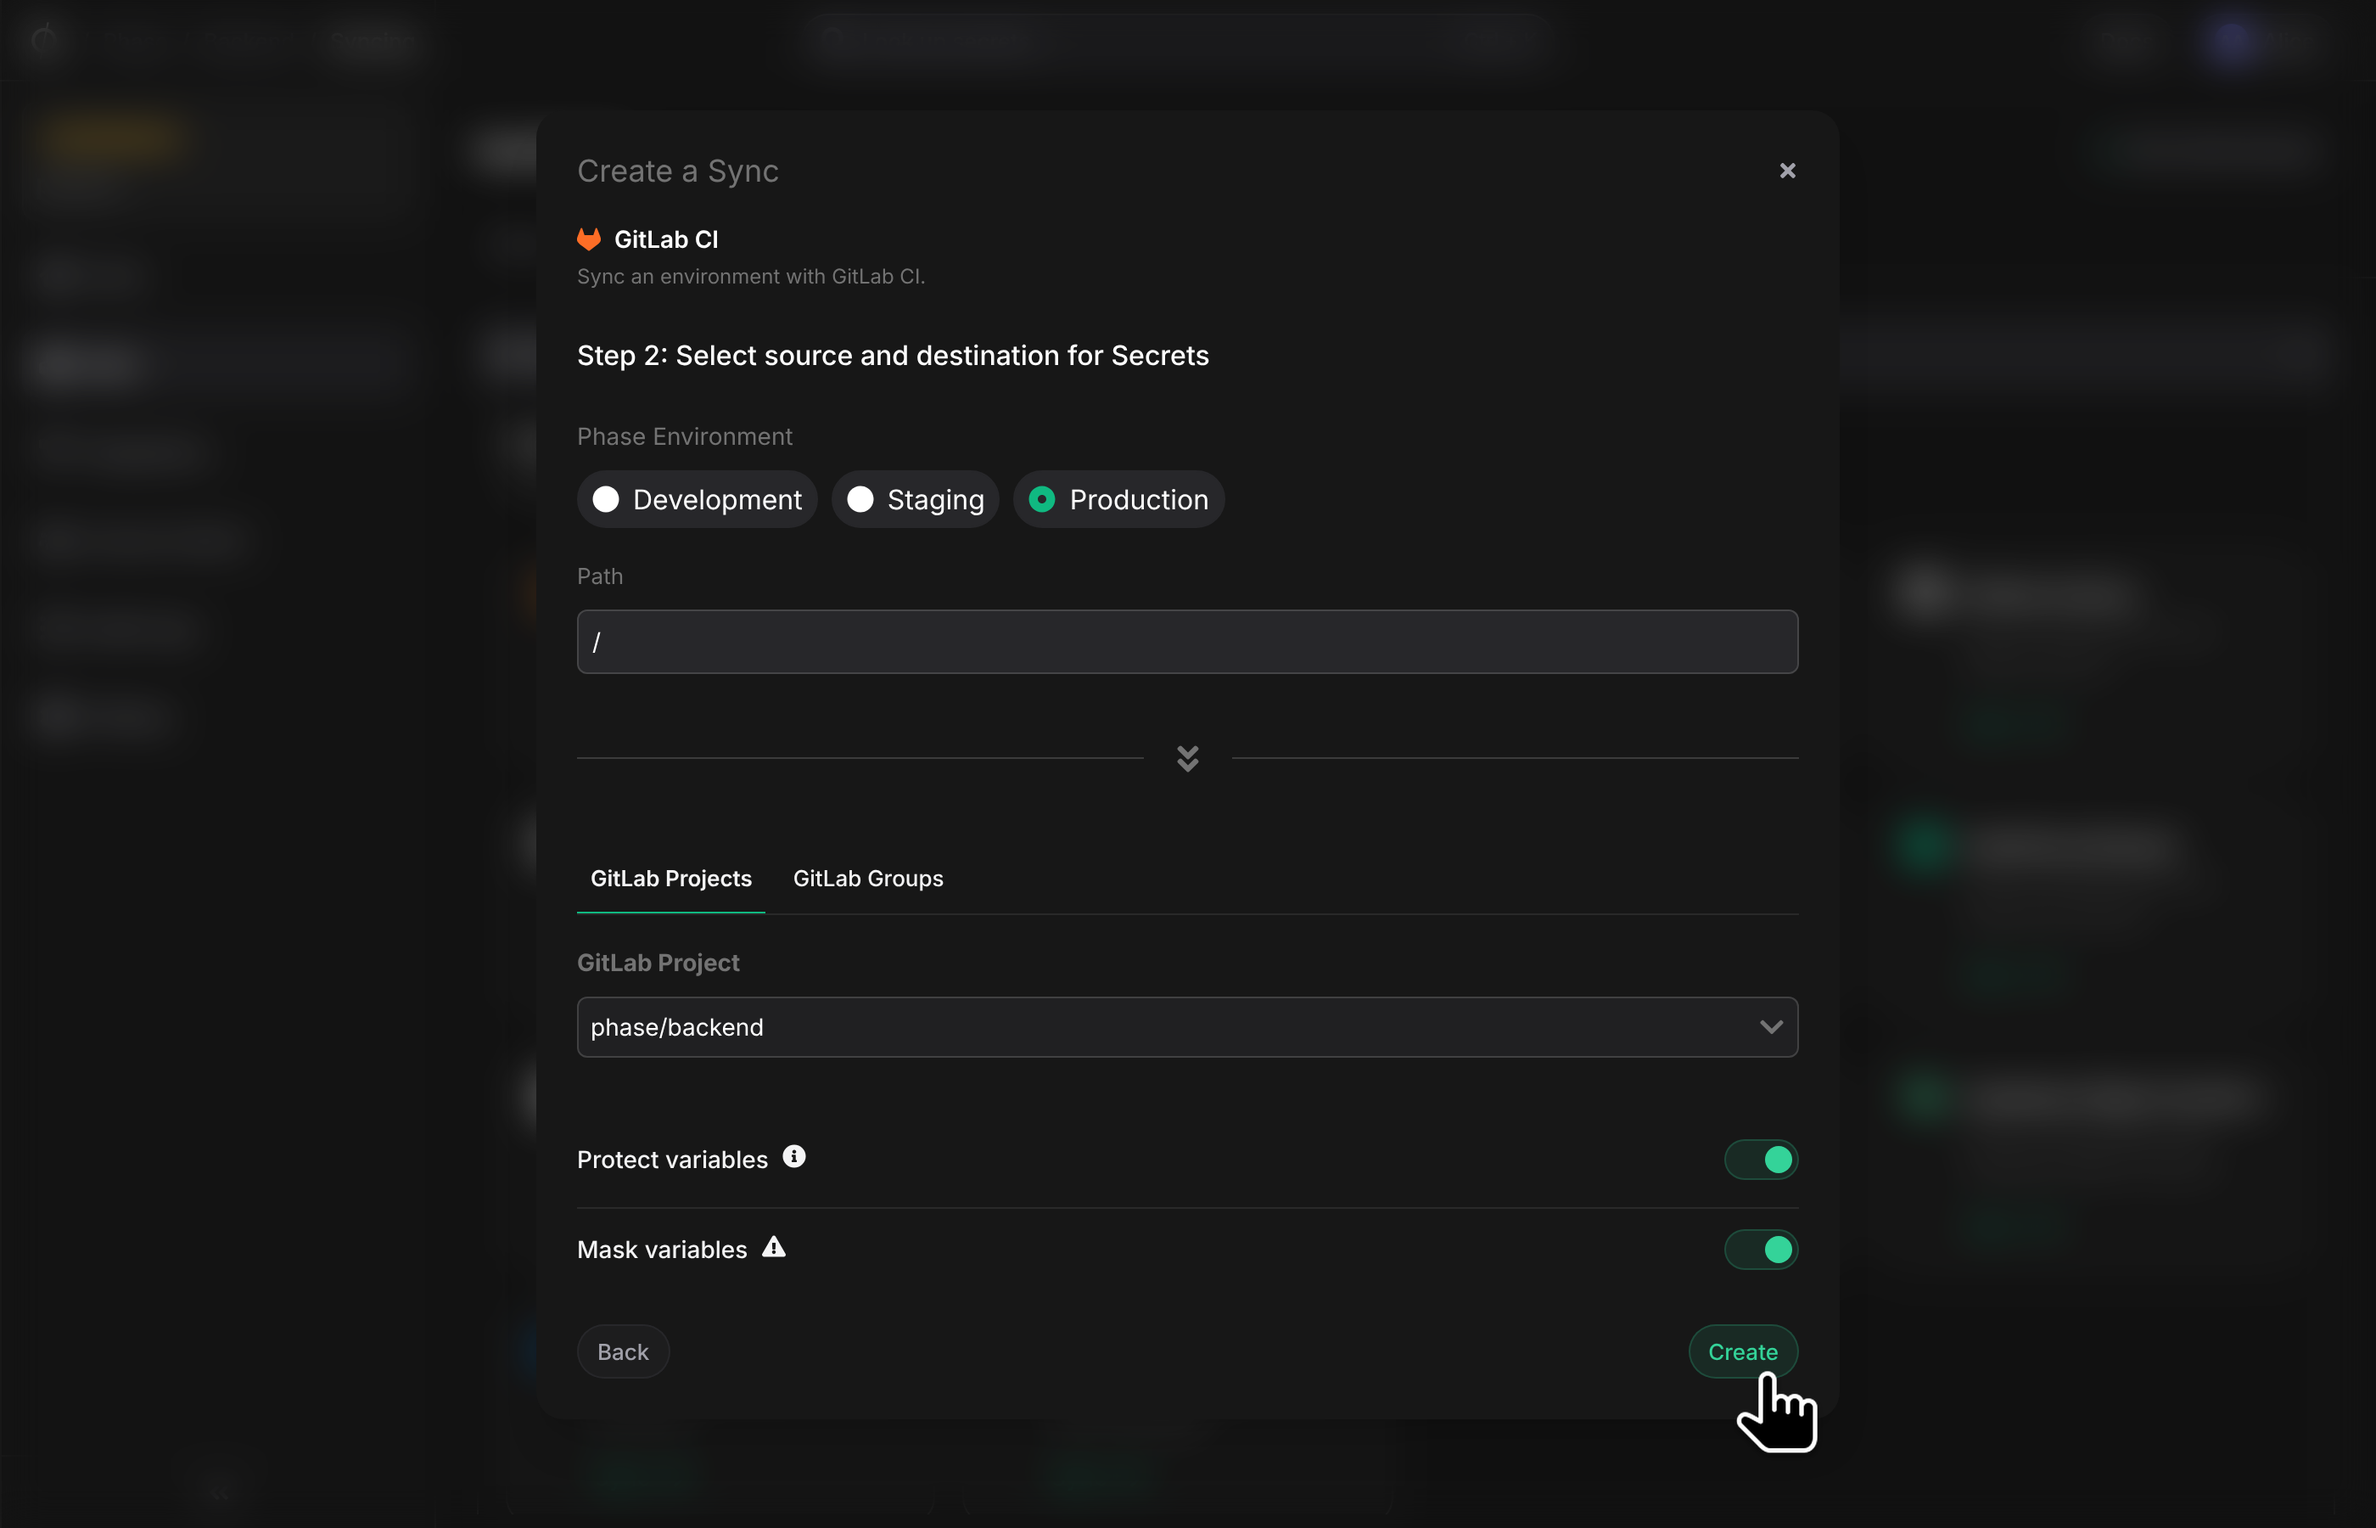
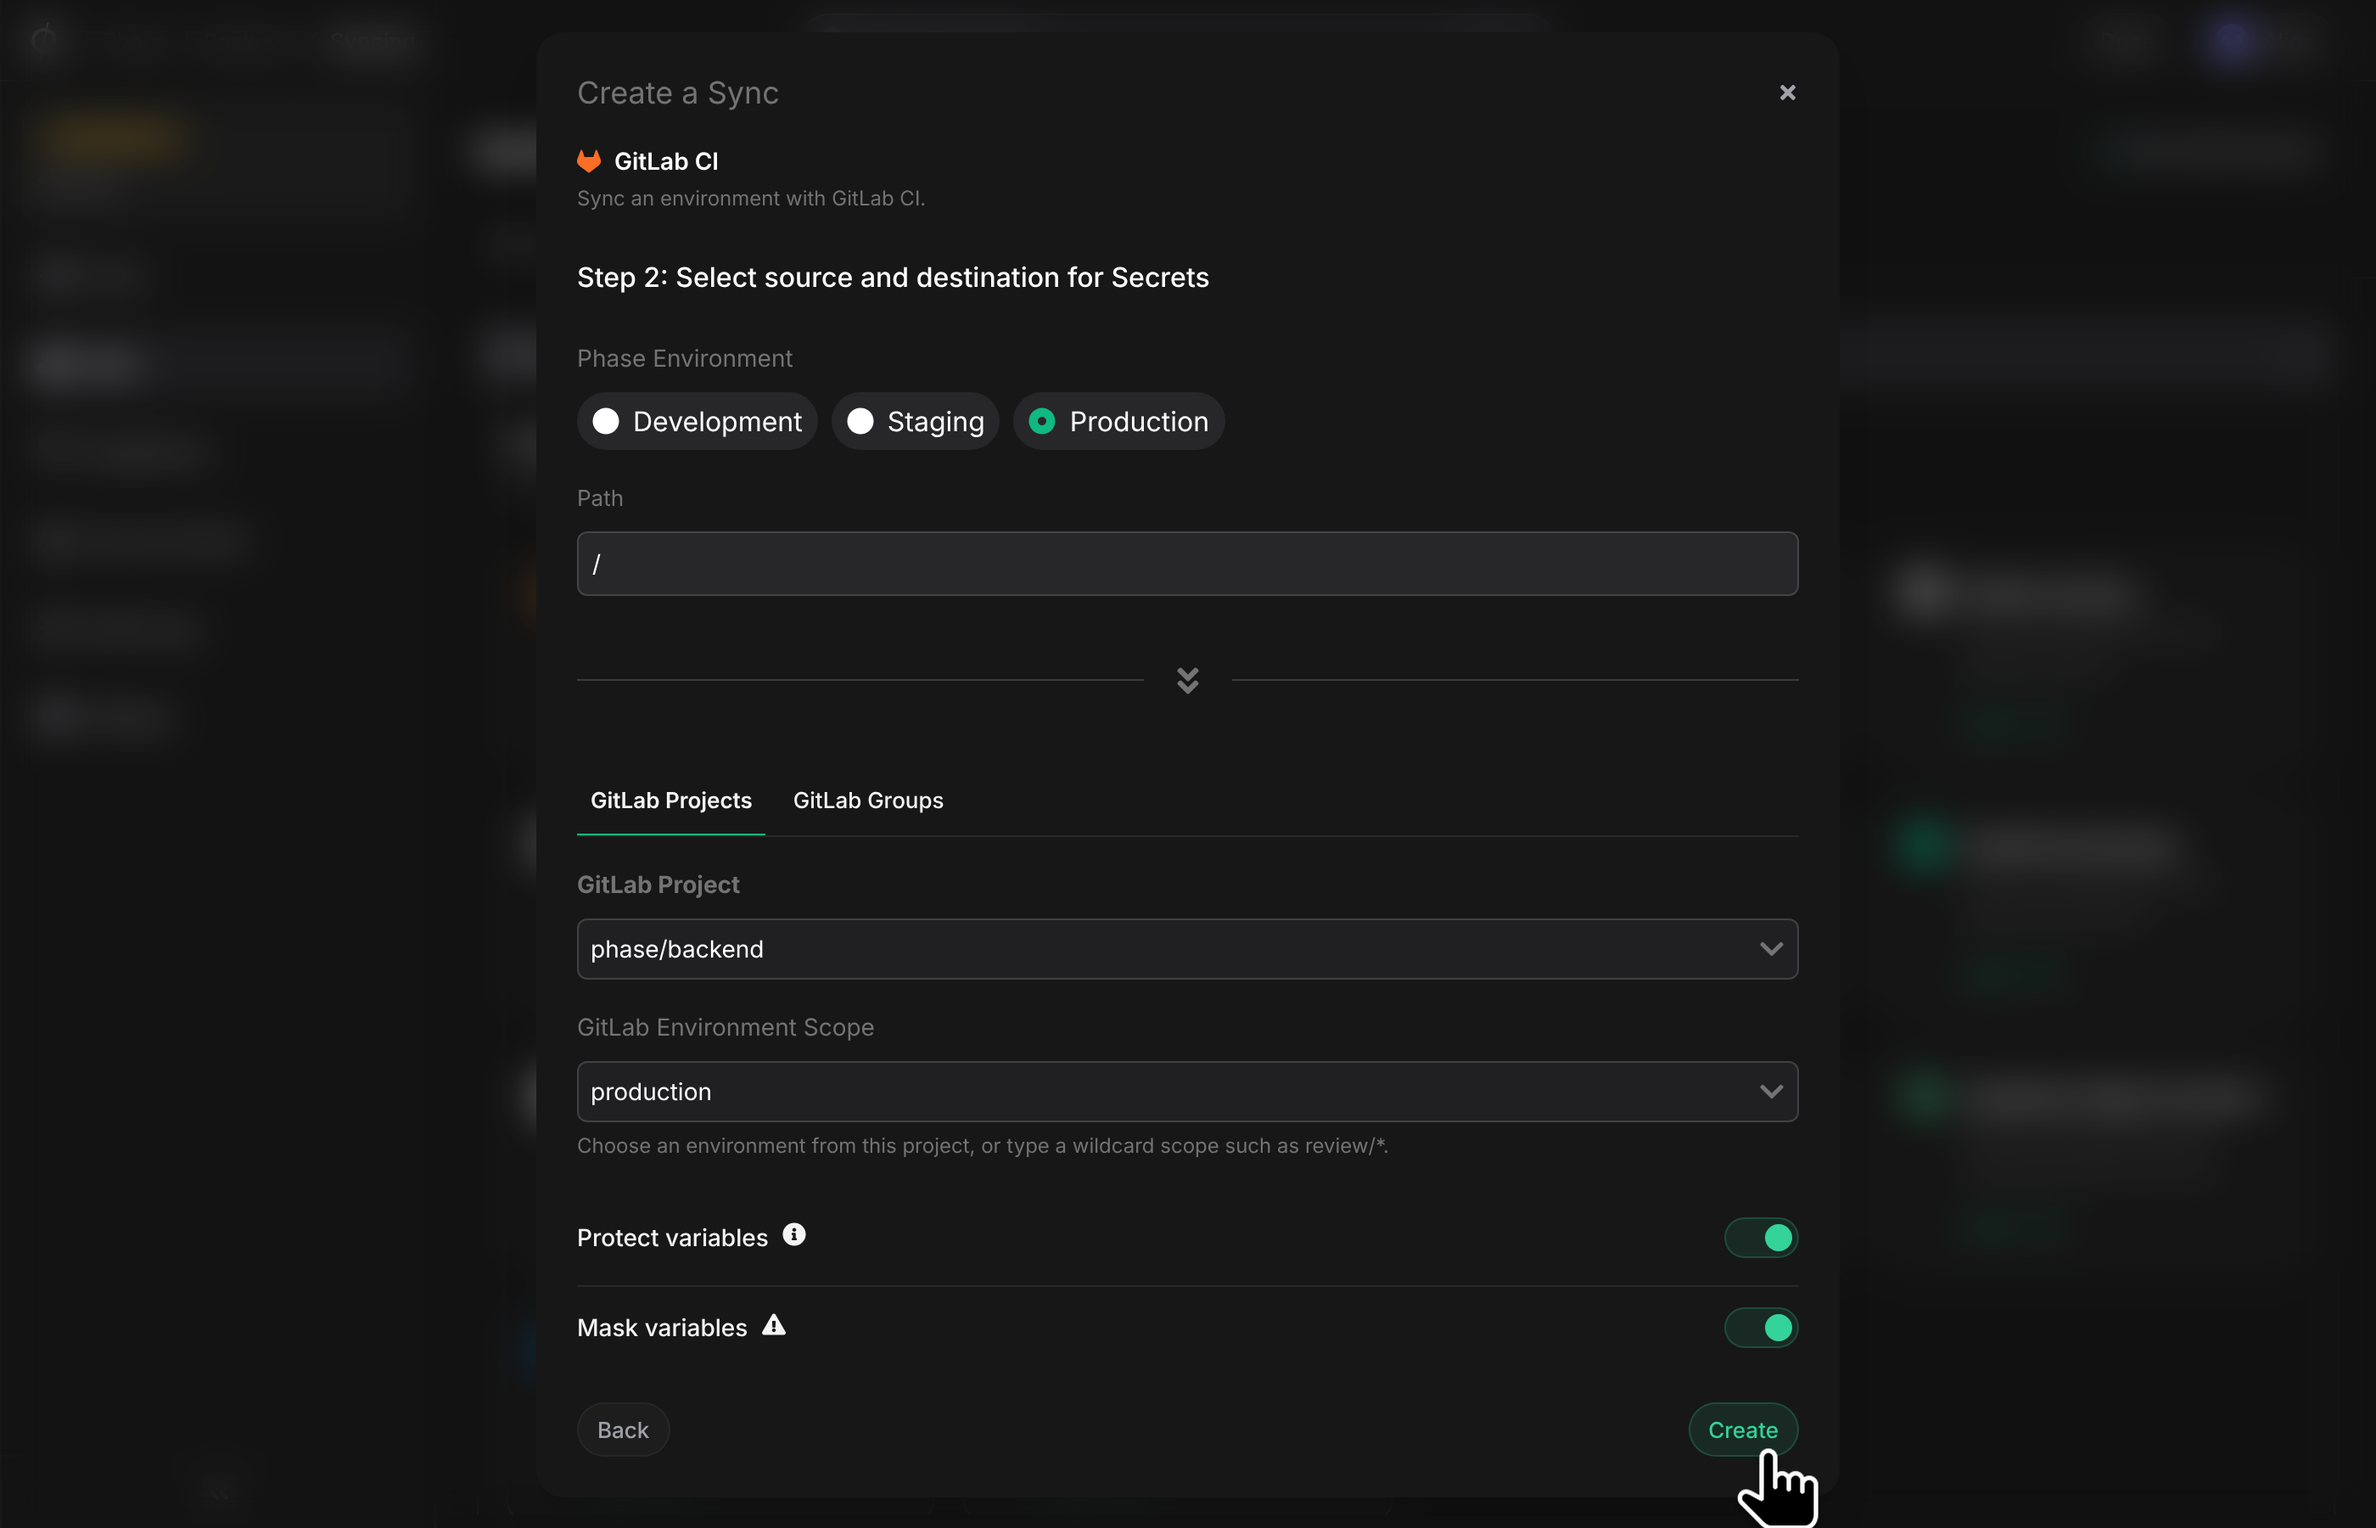
docs: document GitLab CI environment scopes
GitLab syncs can now target a GitLab environment scope. Describe the
new GitLab Environment Scope picker in the sync setup steps, and add an
Environment scopes section covering:

- how each sync manages only the variables in its own scope, with an
  example mapping of Phase Environments to GitLab environments
- using scoped secrets in .gitlab-ci.yml jobs with `environment:`
- syncs created before scopes were available
- the one sync per project or group and scope rule
- the GitLab Premium or Ultimate requirement for scoped group variables

Recapture the Configure sync screenshot with the scope picker and add a
screenshot of the scope dropdown, using the standard mock org and
cursor. The Markdown copy in public/ is regenerated from the MDX.

diff --git a/public/integrations/platforms/gitlab-ci.md b/public/integrations/platforms/gitlab-ci.md
@@ -7,7 +7,7 @@ export const description = 'Integrate Phase with GitLab CI'
 
 # GitLab CI
 
-You can use Phase to sync secrets to GitLab CI Variables.
+You can use Phase to sync secrets to GitLab CI/CD Variables, either for all environments or scoped to specific GitLab environments.
 
 <DocActions />
 
@@ -139,6 +139,10 @@ Now that you have authenticated with GitLab, you can configure syncs for your ap
 3. Choose the source and destination to sync secrets. Select an Environment as the source for Secrets.
    Next, choose a GitLab Project or GitLab Group from the dropdown as the destination to sync Secrets to.
 
+   Then choose a **GitLab Environment Scope**. By default, secrets are synced to the `*` scope (**All environments**) and are available to every job in your pipelines. To make secrets available only to a specific GitLab environment, select one of the project's environments from the dropdown, or type any environment scope, including wildcards such as `review/*`. See [Environment scopes](#environment-scopes) for details.
+
+   ![Choose a GitLab environment scope](/assets/images/platform-integrations/gitlab/gitlab-setup-sync-environment-scope.webp)
+
    You can optionally also choose to [mask](https://docs.gitlab.com/ee/ci/variables/#mask-a-cicd-variable) and/or [protect](https://docs.gitlab.com/ee/ci/variables/) secrets synced to GitLab.
 
    <Note>
@@ -164,6 +168,63 @@ Now that you have authenticated with GitLab, you can configure syncs for your ap
    You can click on the **Manage** button on the Sync card to view sync logs, pause syncing, or update authentication credentials.
 
    ![GitLab CI sync card](/assets/images/platform-integrations/gitlab/gitlab-sync-card.webp)
+
+## Environment scopes
+
+GitLab CI/CD variables can be [limited to an environment](https://docs.gitlab.com/ci/environments/#limit-the-environment-scope-of-a-cicd-variable) with an environment scope. Variables in the default `*` scope are available to every job. Variables in any other scope are only available to jobs that deploy to a matching environment, and if the same key exists in more than one matching scope, GitLab uses the most specific one.
+
+Each GitLab sync manages the variables in a single environment scope:
+
+- It creates, updates and deletes the variables in its scope to match the secrets in the Phase Environment.
+- Variables in other scopes are left untouched, even if they have the same key.
+
+<Note>
+  Syncs created before environment scopes were available don't have an
+  environment scope. They keep syncing to all environments (`*`) as before, and
+  keep updating variables that were moved to another environment scope in
+  GitLab. To sync to a specific environment instead, delete the sync and create
+  it again with an environment scope.
+</Note>
+
+This lets you sync each Phase Environment to the matching environment in the same GitLab project. For example:
+
+| Phase Environment | GitLab Environment Scope |
+| ----------------- | ------------------------ |
+| Development       | `review/*`               |
+| Staging           | `staging`                |
+| Production        | `production`             |
+
+You can also combine a sync to the default `*` scope with syncs to specific environments. Jobs for those environments then use the scoped value of a variable, and every other job uses the value from the `*` scope.
+
+To use secrets that are scoped to an environment, set the [`environment`](https://docs.gitlab.com/ci/yaml/#environment) of the job that needs them:
+
+```yaml
+deploy_staging:
+  stage: deploy
+  environment: staging
+  script:
+    - ./deploy.sh # Secrets synced to the staging scope are available here
+
+deploy_production:
+  stage: deploy
+  environment: production
+  script:
+    - ./deploy.sh # Secrets synced to the production scope are available here
+```
+
+<Note>
+  An App can only have one sync per GitLab project or group and environment
+  scope, since two syncs to the same scope would overwrite each other's
+  variables.
+</Note>
+
+<Warning>
+  Environment scopes for **group** variables require GitLab Premium or
+  Ultimate. On other tiers, GitLab ignores the scope and makes the variable
+  available to every environment. If this happens, Phase removes the variable
+  again and the sync fails with an error, so scoped secrets are never exposed
+  to all environments. Use a project sync or the default `*` scope instead.
+</Warning>
 
 ## Using the Phase CLI
 
